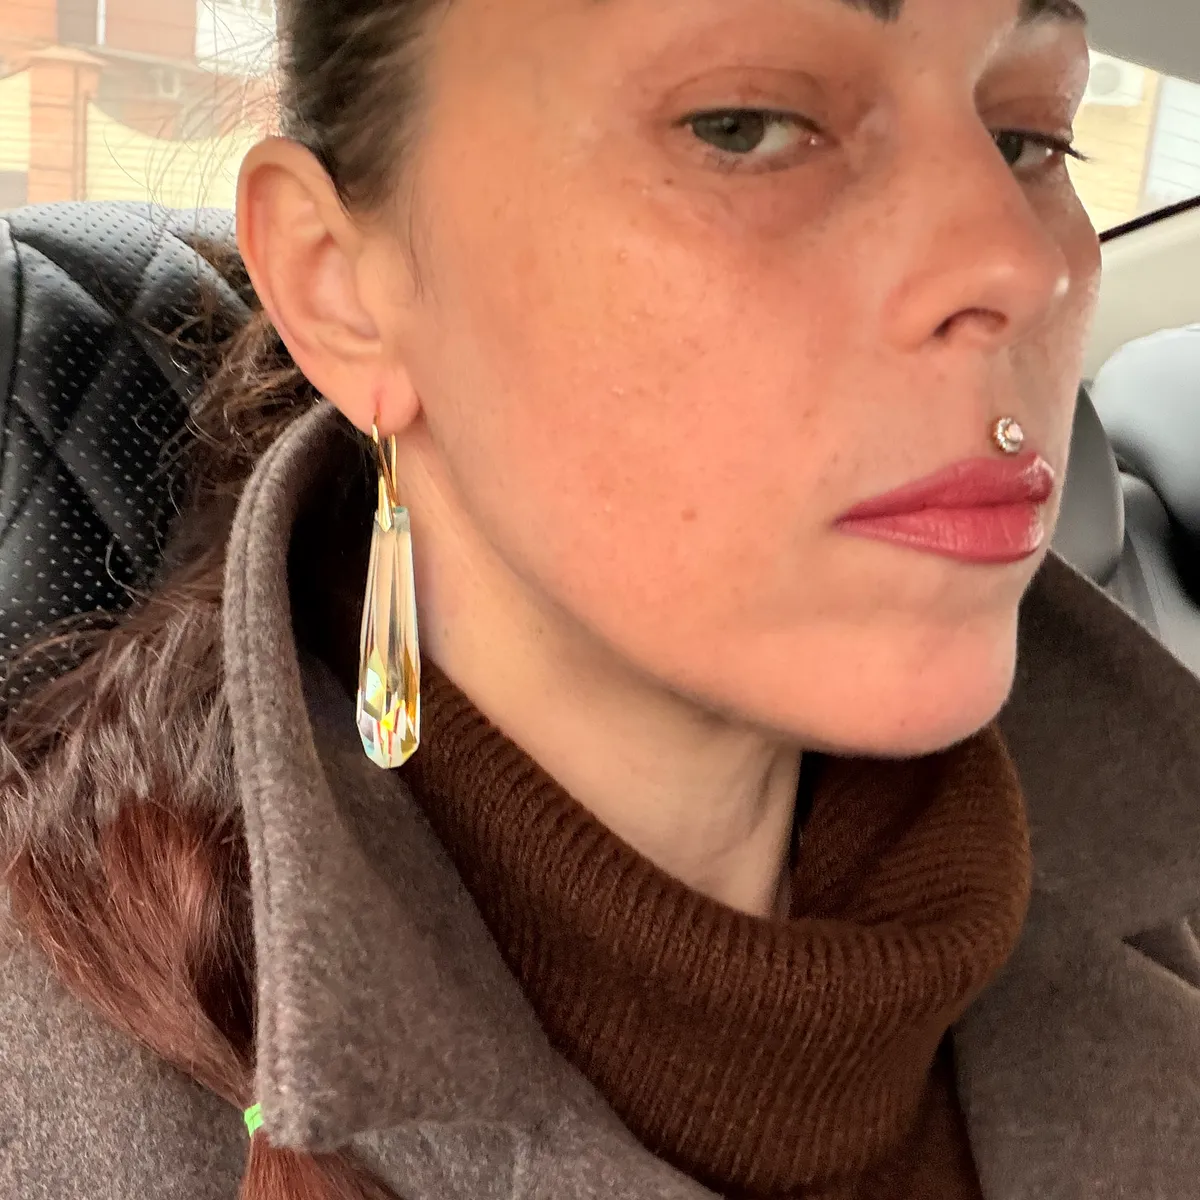
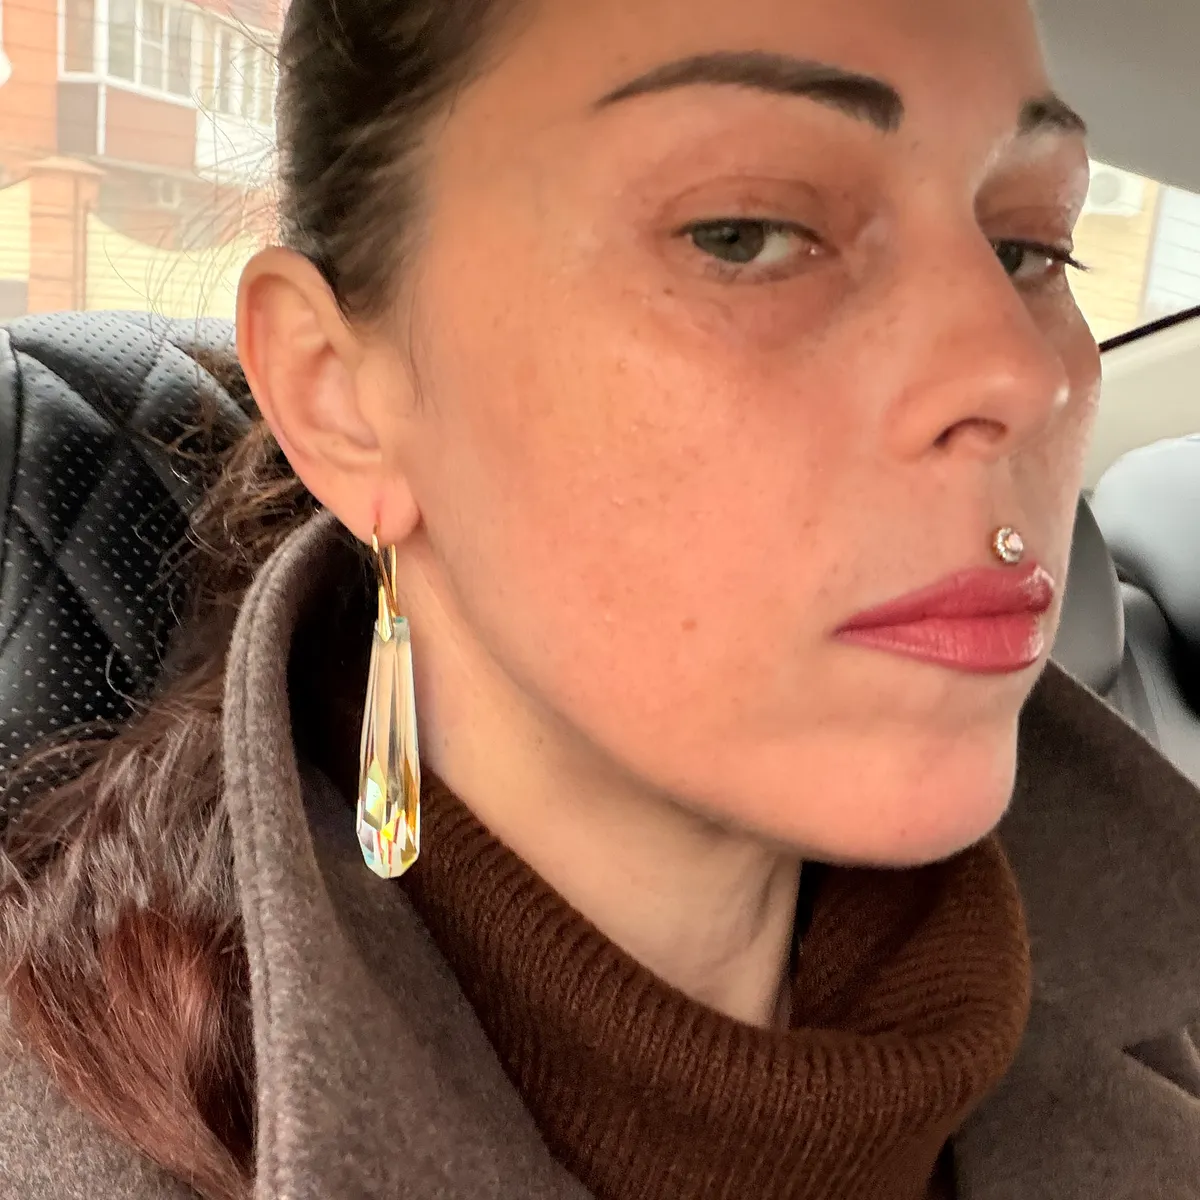
Update site

diff --git a/c/product-3.html b/c/product-3.html
@@ -3,7 +3,7 @@
 <head>
   <meta charset="UTF-8">
   <meta name="viewport" content="width=device-width, initial-scale=1.0">
-  <title>Серебряное кольцо «Луна»</title>
+  <title></title>
   <link rel="stylesheet" href="../css/style.css">
 </head>
 <body>
@@ -25,35 +25,19 @@
             <picture>
               <source
                 type="image/webp"
-                srcset="../uploads/1774260838605-kfwz9uoxla-medium.webp 600w, ../uploads/1774260838605-kfwz9uoxla-large.webp 1200w"
+                srcset="../uploads/1774268077307-n5m4ckhvtsq-medium.webp 600w, ../uploads/1774268077307-n5m4ckhvtsq-large.webp 1200w"
                 sizes="(max-width: 768px) 100vw, 50vw">
-              <img src="../uploads/1774260838605-kfwz9uoxla-large.webp" alt="Серебряное кольцо «Луна»" id="mainImage">
+              <img src="../uploads/1774268077307-n5m4ckhvtsq-large.webp" alt="" id="mainImage">
             </picture>
           </div>
-          
-            <div class="thumbnail-list">
-              
-                <img src="../uploads/1774260838605-kfwz9uoxla-thumb.webp" alt="Серебряное кольцо «Луна»"
-                     class="thumbnail active"
-                     data-medium="../uploads/1774260838605-kfwz9uoxla-medium.webp"
-                     data-large="../uploads/1774260838605-kfwz9uoxla-large.webp"
-                     onclick="changeImage(this)">
-              
-                <img src="../uploads/1774260824298-4stqhlzc283-thumb.webp" alt="Серебряное кольцо «Луна»"
-                     class="thumbnail "
-                     data-medium="../uploads/1774260824298-4stqhlzc283-medium.webp"
-                     data-large="../uploads/1774260824298-4stqhlzc283-large.webp"
-                     onclick="changeImage(this)">
-              
-            </div>
           
         
       </div>
 
       <div class="product-info-detail">
-        <h1>Серебряное кольцо «Луна»</h1>
+        <h1></h1>
 
-        <p class="product-price-large">0 ₽</p>
+        
 
         
           <p class="in-stock-notice">В наличии</p>
@@ -61,7 +45,7 @@
 
         <div class="product-description">
           <h3>Описание</h3>
-          <p>Изящное кольцо из серебра 925 пробы с лунным камнем. Ручная работа, каждое изделие уникально.</p>
+          <p></p>
         </div>
       </div>
     </div>
@@ -70,6 +54,29 @@
       <section class="related-products">
         <h2>Другие товары</h2>
         <div class="product-grid">
+          
+            <div class="product-card">
+  <div class="product-image-wrapper">
+    <a href="serebryanoe-kolco-luna.html" class="product-image">
+      
+        
+        <picture>
+          <source
+            type="image/webp"
+            srcset="../uploads/1774260838605-kfwz9uoxla-thumb.webp 300w, ../uploads/1774260838605-kfwz9uoxla-medium.webp 600w"
+            sizes="(max-width: 480px) 100vw, (max-width: 768px) 50vw, 33vw">
+          <img src="../uploads/1774260838605-kfwz9uoxla-medium.webp" alt="Серебряное кольцо «Луна»" loading="lazy">
+        </picture>
+      
+      <div class="product-overlay">
+        <span class="product-overlay-name">Серебряное кольцо «Луна»</span>
+        
+      </div>
+    </a>
+    
+  </div>
+</div>
+
           
             <div class="product-card">
   <div class="product-image-wrapper">
@@ -86,29 +93,6 @@
       
       <div class="product-overlay">
         <span class="product-overlay-name">Серьги «Капли росы»</span>
-        
-      </div>
-    </a>
-    
-  </div>
-</div>
-
-          
-            <div class="product-card">
-  <div class="product-image-wrapper">
-    <a href="product-3.html" class="product-image">
-      
-        
-        <picture>
-          <source
-            type="image/webp"
-            srcset="../uploads/1774268077307-n5m4ckhvtsq-thumb.webp 300w, ../uploads/1774268077307-n5m4ckhvtsq-medium.webp 600w"
-            sizes="(max-width: 480px) 100vw, (max-width: 768px) 50vw, 33vw">
-          <img src="../uploads/1774268077307-n5m4ckhvtsq-medium.webp" alt="Товар #3" loading="lazy">
-        </picture>
-      
-      <div class="product-overlay">
-        <span class="product-overlay-name">#3</span>
         
       </div>
     </a>

diff --git a/c/moj-kot.html b/c/moj-kot.html
@@ -3,7 +3,7 @@
 <head>
   <meta charset="UTF-8">
   <meta name="viewport" content="width=device-width, initial-scale=1.0">
-  <title>Серьги «Капли росы»</title>
+  <title>Мой кот</title>
   <link rel="stylesheet" href="../css/style.css">
 </head>
 <body>
@@ -25,9 +25,9 @@
             <picture>
               <source
                 type="image/webp"
-                srcset="../uploads/1774260901637-pvfjfd7wf6q-medium.webp 600w, ../uploads/1774260901637-pvfjfd7wf6q-large.webp 1200w"
+                srcset="../uploads/1774268122673-7hixgzygre5-medium.webp 600w, ../uploads/1774268122673-7hixgzygre5-large.webp 1200w"
                 sizes="(max-width: 768px) 100vw, 50vw">
-              <img src="../uploads/1774260901637-pvfjfd7wf6q-large.webp" alt="Серьги «Капли росы»" id="mainImage">
+              <img src="../uploads/1774268122673-7hixgzygre5-large.webp" alt="Мой кот" id="mainImage">
             </picture>
           </div>
           
@@ -35,7 +35,7 @@
       </div>
 
       <div class="product-info-detail">
-        <h1>Серьги «Капли росы»</h1>
+        <h1>Мой кот</h1>
 
         
 
@@ -45,7 +45,7 @@
 
         <div class="product-description">
           <h3>Описание</h3>
-          <p>Элегантные серьги с натуральным жемчугом. Серебро 925 пробы.</p>
+          <p></p>
         </div>
       </div>
     </div>
@@ -80,6 +80,29 @@
           
             <div class="product-card">
   <div class="product-image-wrapper">
+    <a href="sergi-kapli-rosy.html" class="product-image">
+      
+        
+        <picture>
+          <source
+            type="image/webp"
+            srcset="../uploads/1774260901637-pvfjfd7wf6q-thumb.webp 300w, ../uploads/1774260901637-pvfjfd7wf6q-medium.webp 600w"
+            sizes="(max-width: 480px) 100vw, (max-width: 768px) 50vw, 33vw">
+          <img src="../uploads/1774260901637-pvfjfd7wf6q-medium.webp" alt="Серьги «Капли росы»" loading="lazy">
+        </picture>
+      
+      <div class="product-overlay">
+        <span class="product-overlay-name">Серьги «Капли росы»</span>
+        
+      </div>
+    </a>
+    
+  </div>
+</div>
+
+          
+            <div class="product-card">
+  <div class="product-image-wrapper">
     <a href="product-3.html" class="product-image">
       
         
@@ -93,29 +116,6 @@
       
       <div class="product-overlay">
         <span class="product-overlay-name">#3</span>
-        
-      </div>
-    </a>
-    
-  </div>
-</div>
-
-          
-            <div class="product-card">
-  <div class="product-image-wrapper">
-    <a href="moj-kot.html" class="product-image">
-      
-        
-        <picture>
-          <source
-            type="image/webp"
-            srcset="../uploads/1774268122673-7hixgzygre5-thumb.webp 300w, ../uploads/1774268122673-7hixgzygre5-medium.webp 600w"
-            sizes="(max-width: 480px) 100vw, (max-width: 768px) 50vw, 33vw">
-          <img src="../uploads/1774268122673-7hixgzygre5-medium.webp" alt="Мой кот" loading="lazy">
-        </picture>
-      
-      <div class="product-overlay">
-        <span class="product-overlay-name">Мой кот</span>
         
       </div>
     </a>

diff --git a/index.html b/index.html
@@ -31,17 +31,11 @@
           <img src="./uploads/1774260838605-kfwz9uoxla-medium.webp" alt="Серебряное кольцо «Луна»" loading="lazy">
         </picture>
       
+      <div class="product-overlay">
+        <span class="product-overlay-name">Серебряное кольцо «Луна»</span>
+        
+      </div>
     </a>
-    
-  </div>
-
-  <div class="product-info">
-    <h3 class="product-name">
-      <a href="c/serebryanoe-kolco-luna.html">Серебряное кольцо «Луна»</a>
-    </h3>
-
-    <p class="product-price">0 ₽</p>
-
     
   </div>
 </div>
@@ -60,17 +54,57 @@
           <img src="./uploads/1774260901637-pvfjfd7wf6q-medium.webp" alt="Серьги «Капли росы»" loading="lazy">
         </picture>
       
+      <div class="product-overlay">
+        <span class="product-overlay-name">Серьги «Капли росы»</span>
+        
+      </div>
     </a>
     
   </div>
+</div>
 
-  <div class="product-info">
-    <h3 class="product-name">
-      <a href="c/sergi-kapli-rosy.html">Серьги «Капли росы»</a>
-    </h3>
-
+        
+          <div class="product-card">
+  <div class="product-image-wrapper">
+    <a href="c/product-3.html" class="product-image">
+      
+        
+        <picture>
+          <source
+            type="image/webp"
+            srcset="./uploads/1774268077307-n5m4ckhvtsq-thumb.webp 300w, ./uploads/1774268077307-n5m4ckhvtsq-medium.webp 600w"
+            sizes="(max-width: 480px) 100vw, (max-width: 768px) 50vw, 33vw">
+          <img src="./uploads/1774268077307-n5m4ckhvtsq-medium.webp" alt="Товар #3" loading="lazy">
+        </picture>
+      
+      <div class="product-overlay">
+        <span class="product-overlay-name">#3</span>
+        
+      </div>
+    </a>
     
+  </div>
+</div>
 
+        
+          <div class="product-card">
+  <div class="product-image-wrapper">
+    <a href="c/moj-kot.html" class="product-image">
+      
+        
+        <picture>
+          <source
+            type="image/webp"
+            srcset="./uploads/1774268122673-7hixgzygre5-thumb.webp 300w, ./uploads/1774268122673-7hixgzygre5-medium.webp 600w"
+            sizes="(max-width: 480px) 100vw, (max-width: 768px) 50vw, 33vw">
+          <img src="./uploads/1774268122673-7hixgzygre5-medium.webp" alt="Мой кот" loading="lazy">
+        </picture>
+      
+      <div class="product-overlay">
+        <span class="product-overlay-name">Мой кот</span>
+        
+      </div>
+    </a>
     
   </div>
 </div>

diff --git a/css/style.css b/css/style.css
@@ -330,11 +330,18 @@ main.container {
   background: var(--color-primary);
 }
 
+.product-image {
+  position: relative;
+  display: block;
+  line-height: 0;
+}
+
 .product-image img,
 .product-image .placeholder-image {
   width: 100%;
   aspect-ratio: 1;
   object-fit: cover;
+  display: block;
 }
 
 .placeholder-image {
@@ -350,30 +357,31 @@ main.container {
   height: 400px;
 }
 
-.product-info {
-  padding: 1rem;
+.product-overlay {
+  position: absolute;
+  bottom: 0;
+  left: 0;
+  right: 0;
+  padding: 2rem 0.75rem 0.75rem;
+  background: linear-gradient(transparent, rgba(0, 0, 0, 0.7));
+  display: flex;
+  justify-content: space-between;
+  align-items: flex-end;
+  gap: 0.5rem;
 }
 
-.product-name {
-  font-size: 1rem;
-  margin-bottom: 0.25rem;
-}
-
-.product-name a {
-  color: var(--color-text);
-}
-
-.product-category {
-  font-size: 0.75rem;
-  color: var(--color-text-light);
-  text-transform: uppercase;
-}
-
-.product-price {
-  font-size: 1.25rem;
+.product-overlay-name {
+  color: white;
   font-weight: 600;
-  color: var(--color-primary);
-  margin-top: 0.5rem;
+  font-size: 0.95rem;
+  line-height: 1.2;
+}
+
+.product-overlay-price {
+  color: white;
+  font-weight: 700;
+  font-size: 1.1rem;
+  white-space: nowrap;
 }
 
 .out-of-stock {

diff --git a/css/admin.css b/css/admin.css
@@ -271,7 +271,7 @@
 /* Image Upload */
 .image-preview-grid {
   display: grid;
-  grid-template-columns: repeat(auto-fill, minmax(120px, 1fr));
+  grid-template-columns: repeat(auto-fill, minmax(180px, 1fr));
   gap: 1rem;
   margin-bottom: 1rem;
 }
@@ -285,7 +285,7 @@
 
 .image-preview-item img {
   width: 100%;
-  height: 120px;
+  height: 180px;
   object-fit: cover;
   display: block;
 }
